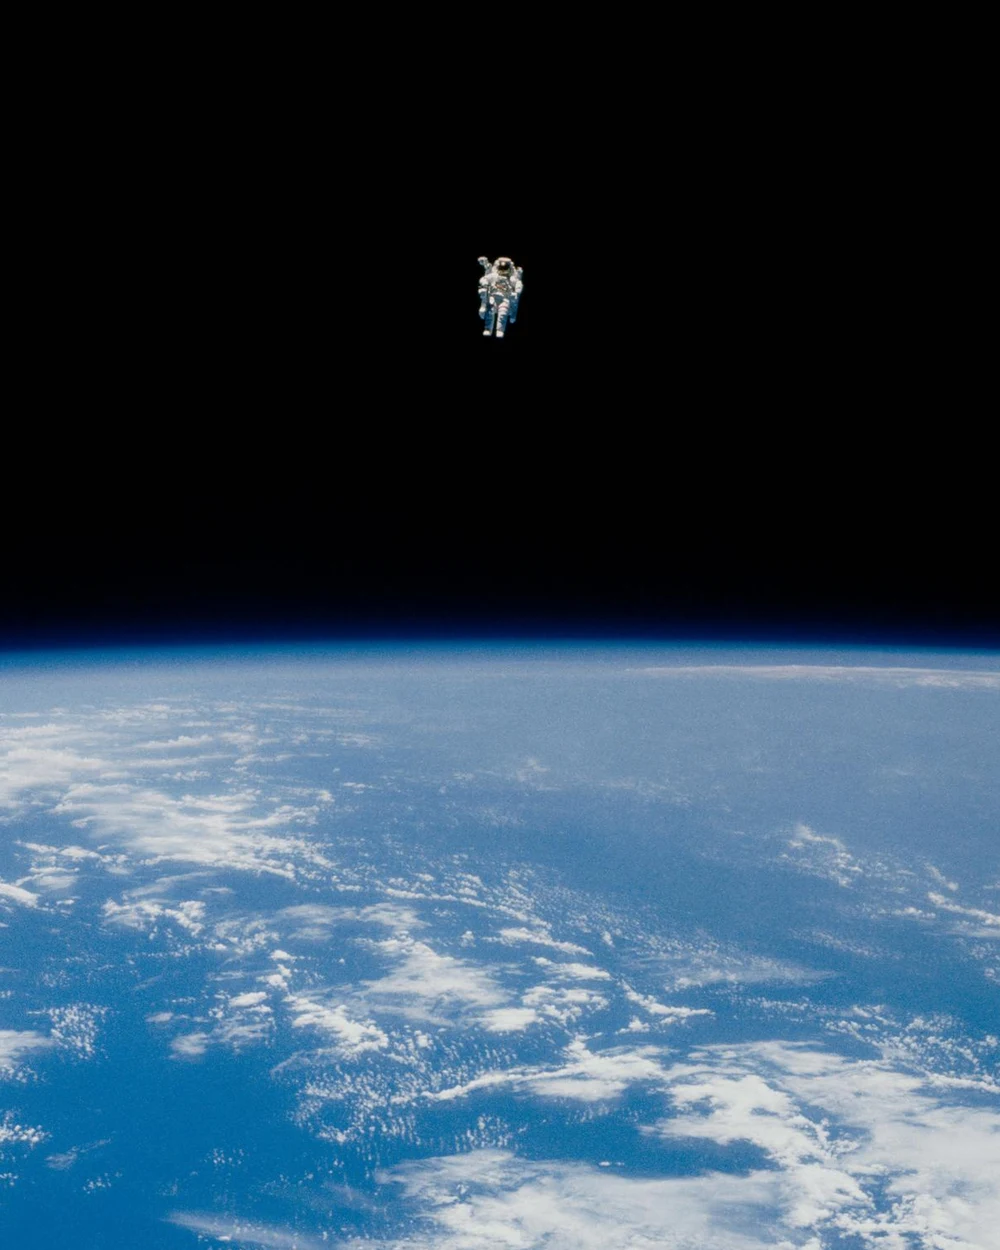
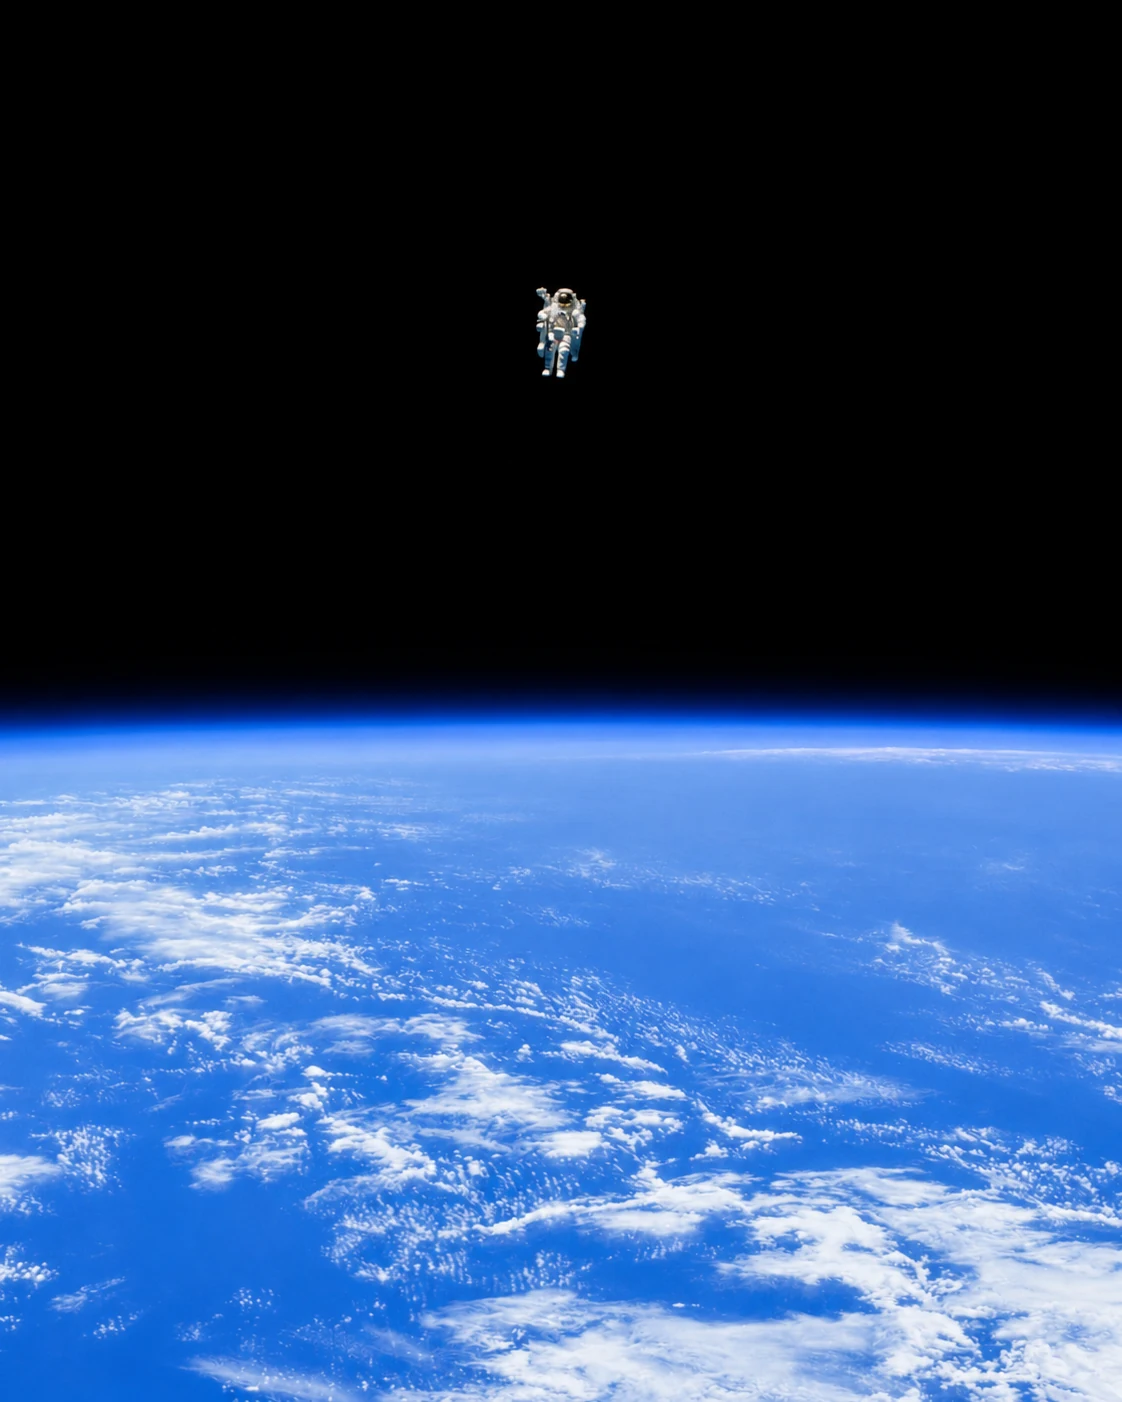
Complete the carousel and recolor the menu photos

diff --git a/custom/affiliations.js b/custom/affiliations.js
@@ -2,6 +2,19 @@
    this removes the legacy control and provides failed-image text fallbacks. */
 (function () {
   'use strict';
+  var assets = new URL('./organizations/', document.currentScript.src);
+  // Add the three distinct Experience affiliations to the shared carousel,
+  // using the same artwork and destinations as the Experience records.
+  var additions = [
+    { key: 'alcaldia', label: 'Alcaldía Mayor de Bogotá', href: 'https://bogota.gov.co/',
+      image: 'alcaldia-bogota.jpg', height: 58, width: 118 },
+    { key: 'microsoft', label: 'Microsoft Student Ambassadors', title: 'Microsoft',
+      href: 'https://mvp.microsoft.com/studentambassadors', image: 'microsoft-symbol.svg',
+      height: 30, width: 152 },
+    { key: 'gdg', label: 'Google Developer Groups', title: 'Google Developer Groups',
+      href: 'https://developers.google.com/community/gdg', image: 'gdg-symbol.svg',
+      height: 22, width: 228 }
+  ];
   var organizationSites = {
     "ie": [
       "https://www.ie.edu/university/",
@@ -24,9 +37,37 @@
       "Colegio Nueva Granada"
     ]
   };
+  function appendAdditionalOrganizations(group) {
+    additions.forEach(function (organization) {
+      var className = 'am-org-lockup--' + organization.key;
+      if (group.querySelector('.' + className)) return;
+      var link = document.createElement('a');
+      link.className = 'am-org-lockup ' + className;
+      link.href = organization.href;
+      link.target = '_blank';
+      link.rel = 'noopener noreferrer';
+      link.setAttribute('aria-label', organization.label);
+      link.setAttribute('data-taxi-ignore', '');
+      link.style.width = organization.width + 'px';
+      if (group.closest('[aria-hidden="true"]')) link.tabIndex = -1;
+      var logo = document.createElement('img');
+      logo.src = new URL(organization.image, assets).href;
+      logo.alt = organization.label;
+      logo.style.height = organization.height + 'px';
+      link.appendChild(logo);
+      if (organization.title) {
+        var title = document.createElement('span');
+        title.textContent = organization.title;
+        title.style.cssText = 'font:600 15px/1.2 Arial,sans-serif;white-space:nowrap;color:#203047';
+        link.appendChild(title);
+      }
+      group.appendChild(link);
+    });
+  }
   function boot() {
     document.querySelectorAll('.is-footer a[data-site-art-link]').forEach(function (link) { link.remove(); });
     document.querySelectorAll('.am-org-marquee').forEach(function (marquee) {
+      marquee.querySelectorAll('.am-org-group').forEach(appendAdditionalOrganizations);
       Object.keys(organizationSites).forEach(function (key) {
         marquee.querySelectorAll('div.am-org-lockup--' + key).forEach(function (item) {
           var link = document.createElement('a');
